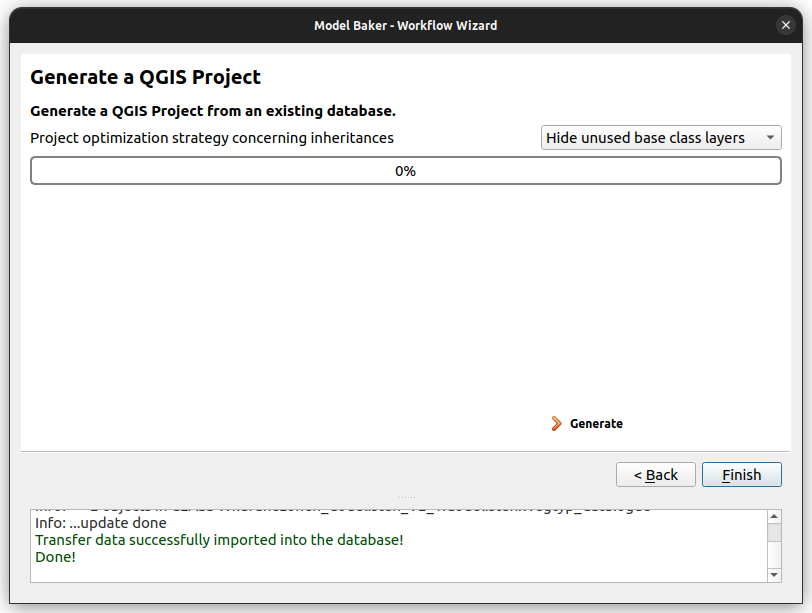
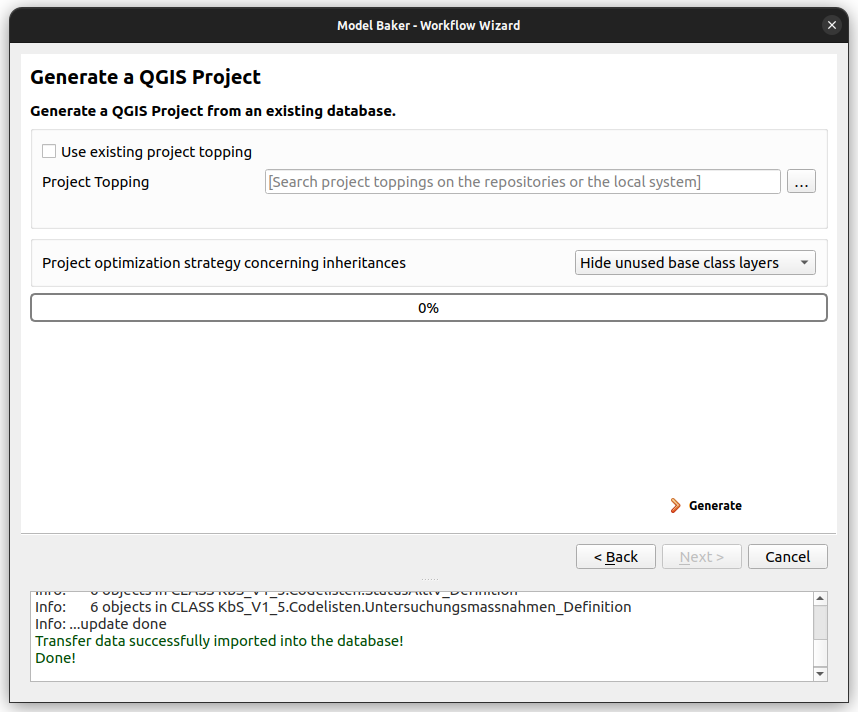
doku for project topping in project generation page

Changed region(s): [[0.0, 0.0, 1.0, 0.9918], [0.6773, 0.6819, 0.9544, 0.8059], [0.0, 0.0, 0.0308, 0.031]]

diff --git a/docs/user_guide/import_workflow.md b/docs/user_guide/import_workflow.md
@@ -149,25 +149,17 @@ Then, with a simple click you generate your project. All the toppings received f
 
 ![baked project](../assets/generated_project.png)
 
-### TID (OID) Values
+Easy as that. Still you can choose some more options.
 
-Often the models definition requires cross-system unique identificators. So called OIDs or TIDs, what are represented in the physical database as the `t_ili_tid` column. Find a clear definition and more details about them in the [corresponding chapter](../../background_info/oid_tid_generator).
+![project generation](../assets/workflow_wizard_project_generation.png)
 
-On creating a QGIS Project with Model Baker, there are preset default value expression generated for the `t_ili_tid` field on the attribute form. But often those default value expressions need to be edited by the user (like e.g. the prefix in the `STANDARDOID`).
+### Choose a Project Topping
 
-![tid generator](../assets/workflow_wizard_tid_generator_page.png)
-
-Here you can use the QGIS Expression Dialog to edit the default value expression for the `t_ili_tid` field of each layer.
-
-If you need a counter in the expressions, you can use the `t_id` field, that has a schema-wide sequence counting up. This sequence can be reset as well by the user, but be careful not to set it lower than already existing `t_id`s in your project.
-
-This settings can be made on an existing QGIS Project as well. Find the [TID (OID) Manager](../../background_info/oid_tid_generator/#tid_(oid)_manager) via the *Database > Model Baker* menu.
+If you have already selected a metaconfiguration file [previously](#metaconfiguration-topping) and this metaconfiguration file refers to a project topping file (`YAML` file containing the layer tree and links to the layer style files), it is taken into account by default. If you create the project from an existing database, Model Baker checks whether this schema was created with a meta configuration file to consider here. If this is not the case, or if you simply want to select a different file, this option is also available. Get your project topping file from the repositories or from your local system.
 
 ### Optimize QGIS Project if extended
 
 In case you gereate your project for an extended model structure that was created with *smart2inheritance*, then you can optimize it (hide or group unused layers and relations).
-
-![project generation](../assets/workflow_wizard_project_generation.png)
 
 Choose your optimization strategy in the checkbox:
 
@@ -182,3 +174,17 @@ Choose your optimization strategy in the checkbox:
   Relations of grouped layers will be *created* but the widgets are *not applied* to the form.
 
 For more information about the optimization of extended models, see the [corresponding chapter](../../background_info/extended_models_optimization).
+
+### TID (OID) Values
+
+Often the models definition requires cross-system unique identificators. So called OIDs or TIDs, what are represented in the physical database as the `t_ili_tid` column. Find a clear definition and more details about them in the [corresponding chapter](../../background_info/oid_tid_generator).
+
+On creating a QGIS Project with Model Baker, there are preset default value expression generated for the `t_ili_tid` field on the attribute form. But often those default value expressions need to be edited by the user (like e.g. the prefix in the `STANDARDOID`).
+
+![tid generator](../assets/workflow_wizard_tid_generator_page.png)
+
+Here you can use the QGIS Expression Dialog to edit the default value expression for the `t_ili_tid` field of each layer.
+
+If you need a counter in the expressions, you can use the `t_id` field, that has a schema-wide sequence counting up. This sequence can be reset as well by the user, but be careful not to set it lower than already existing `t_id`s in your project.
+
+This settings can be made on an existing QGIS Project as well. Find the [TID (OID) Manager](../../background_info/oid_tid_generator/#tid_(oid)_manager) via the *Database > Model Baker* menu.
